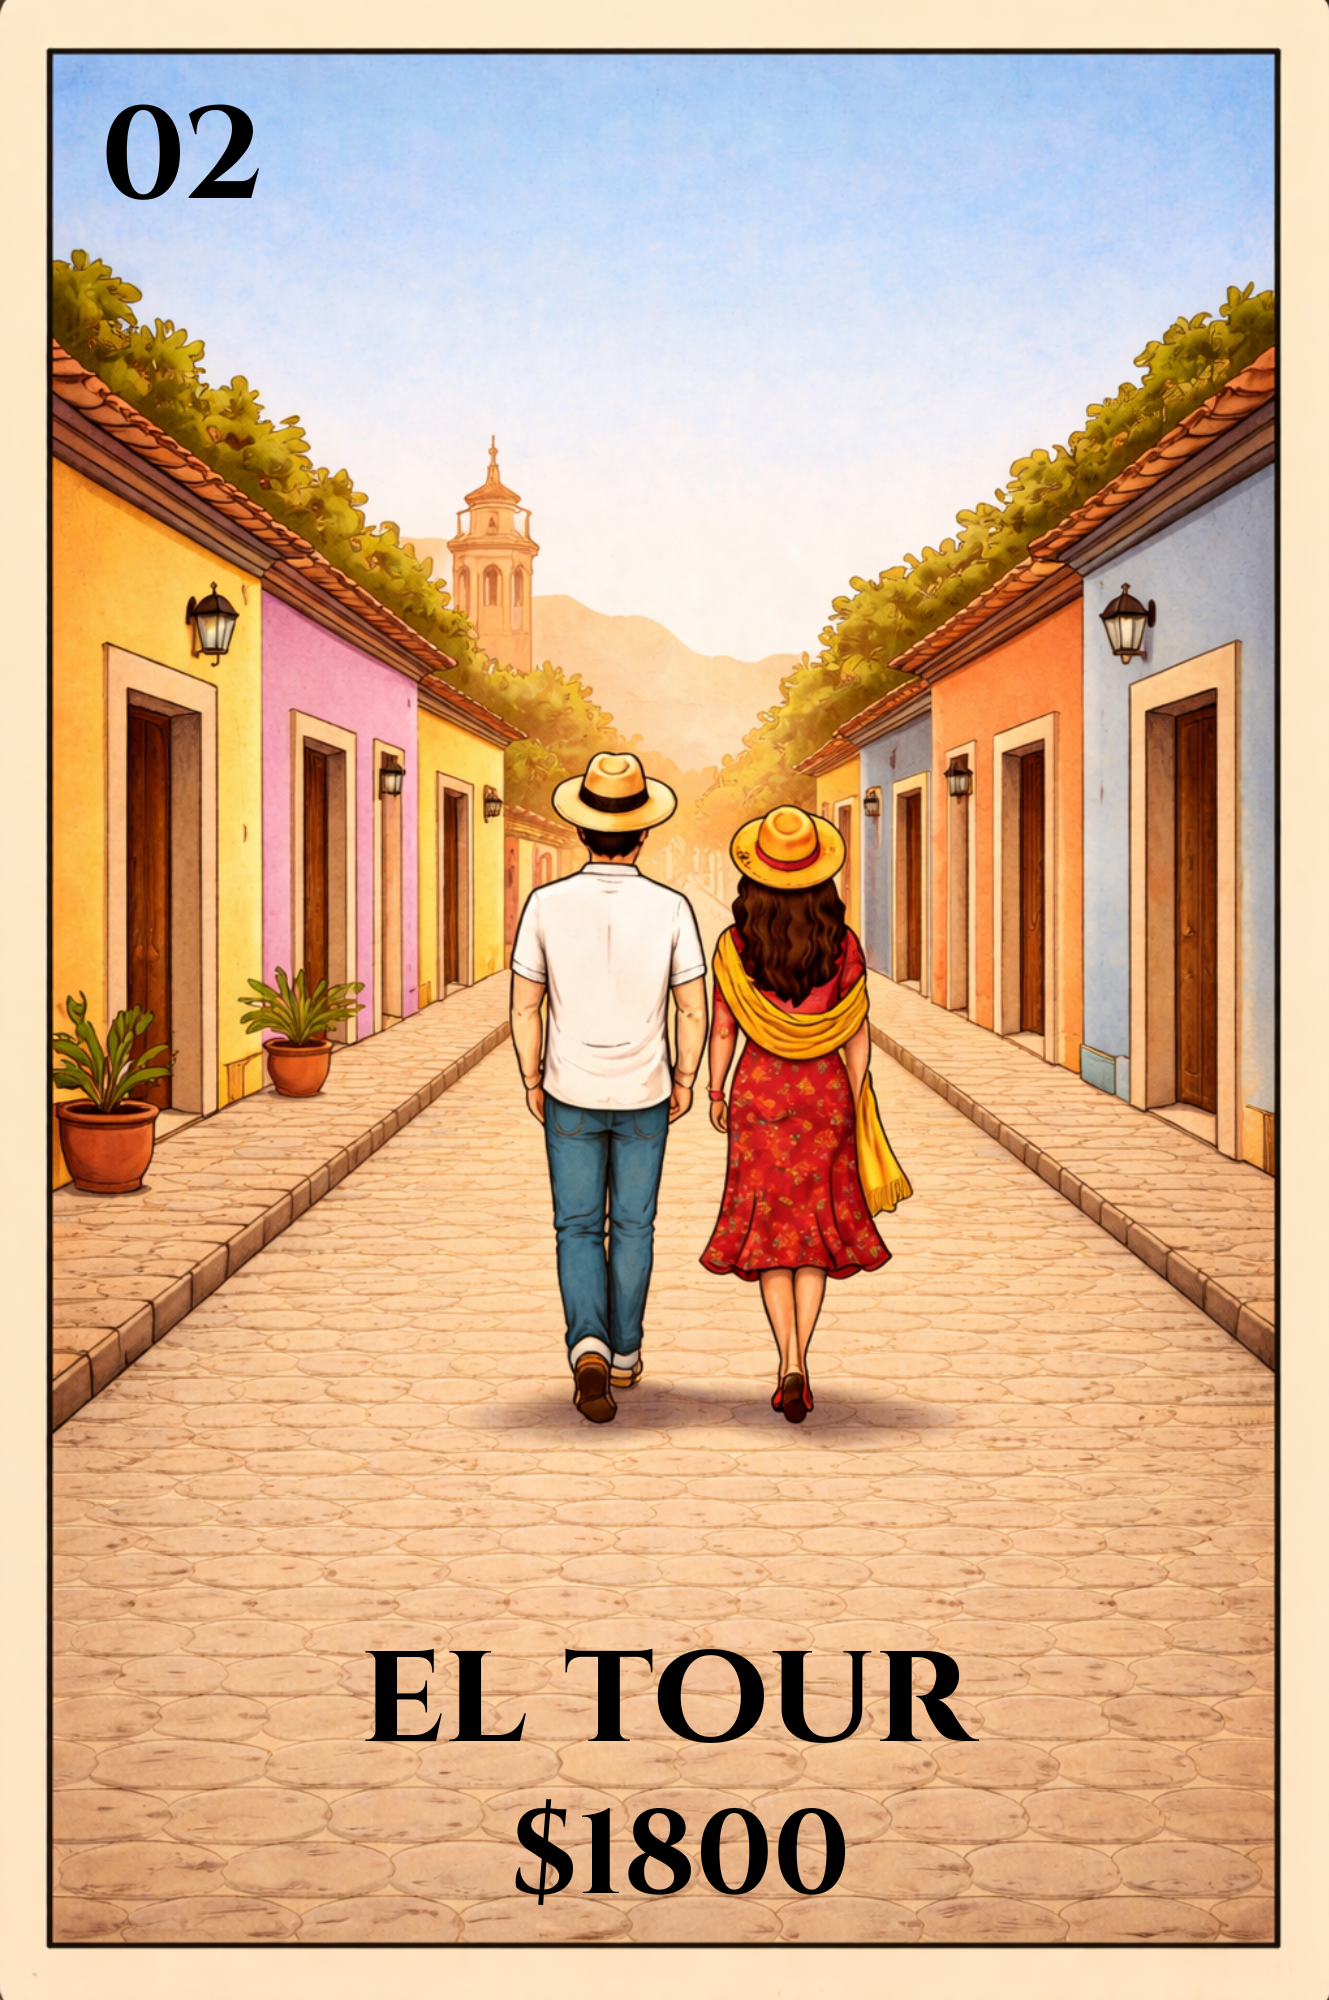
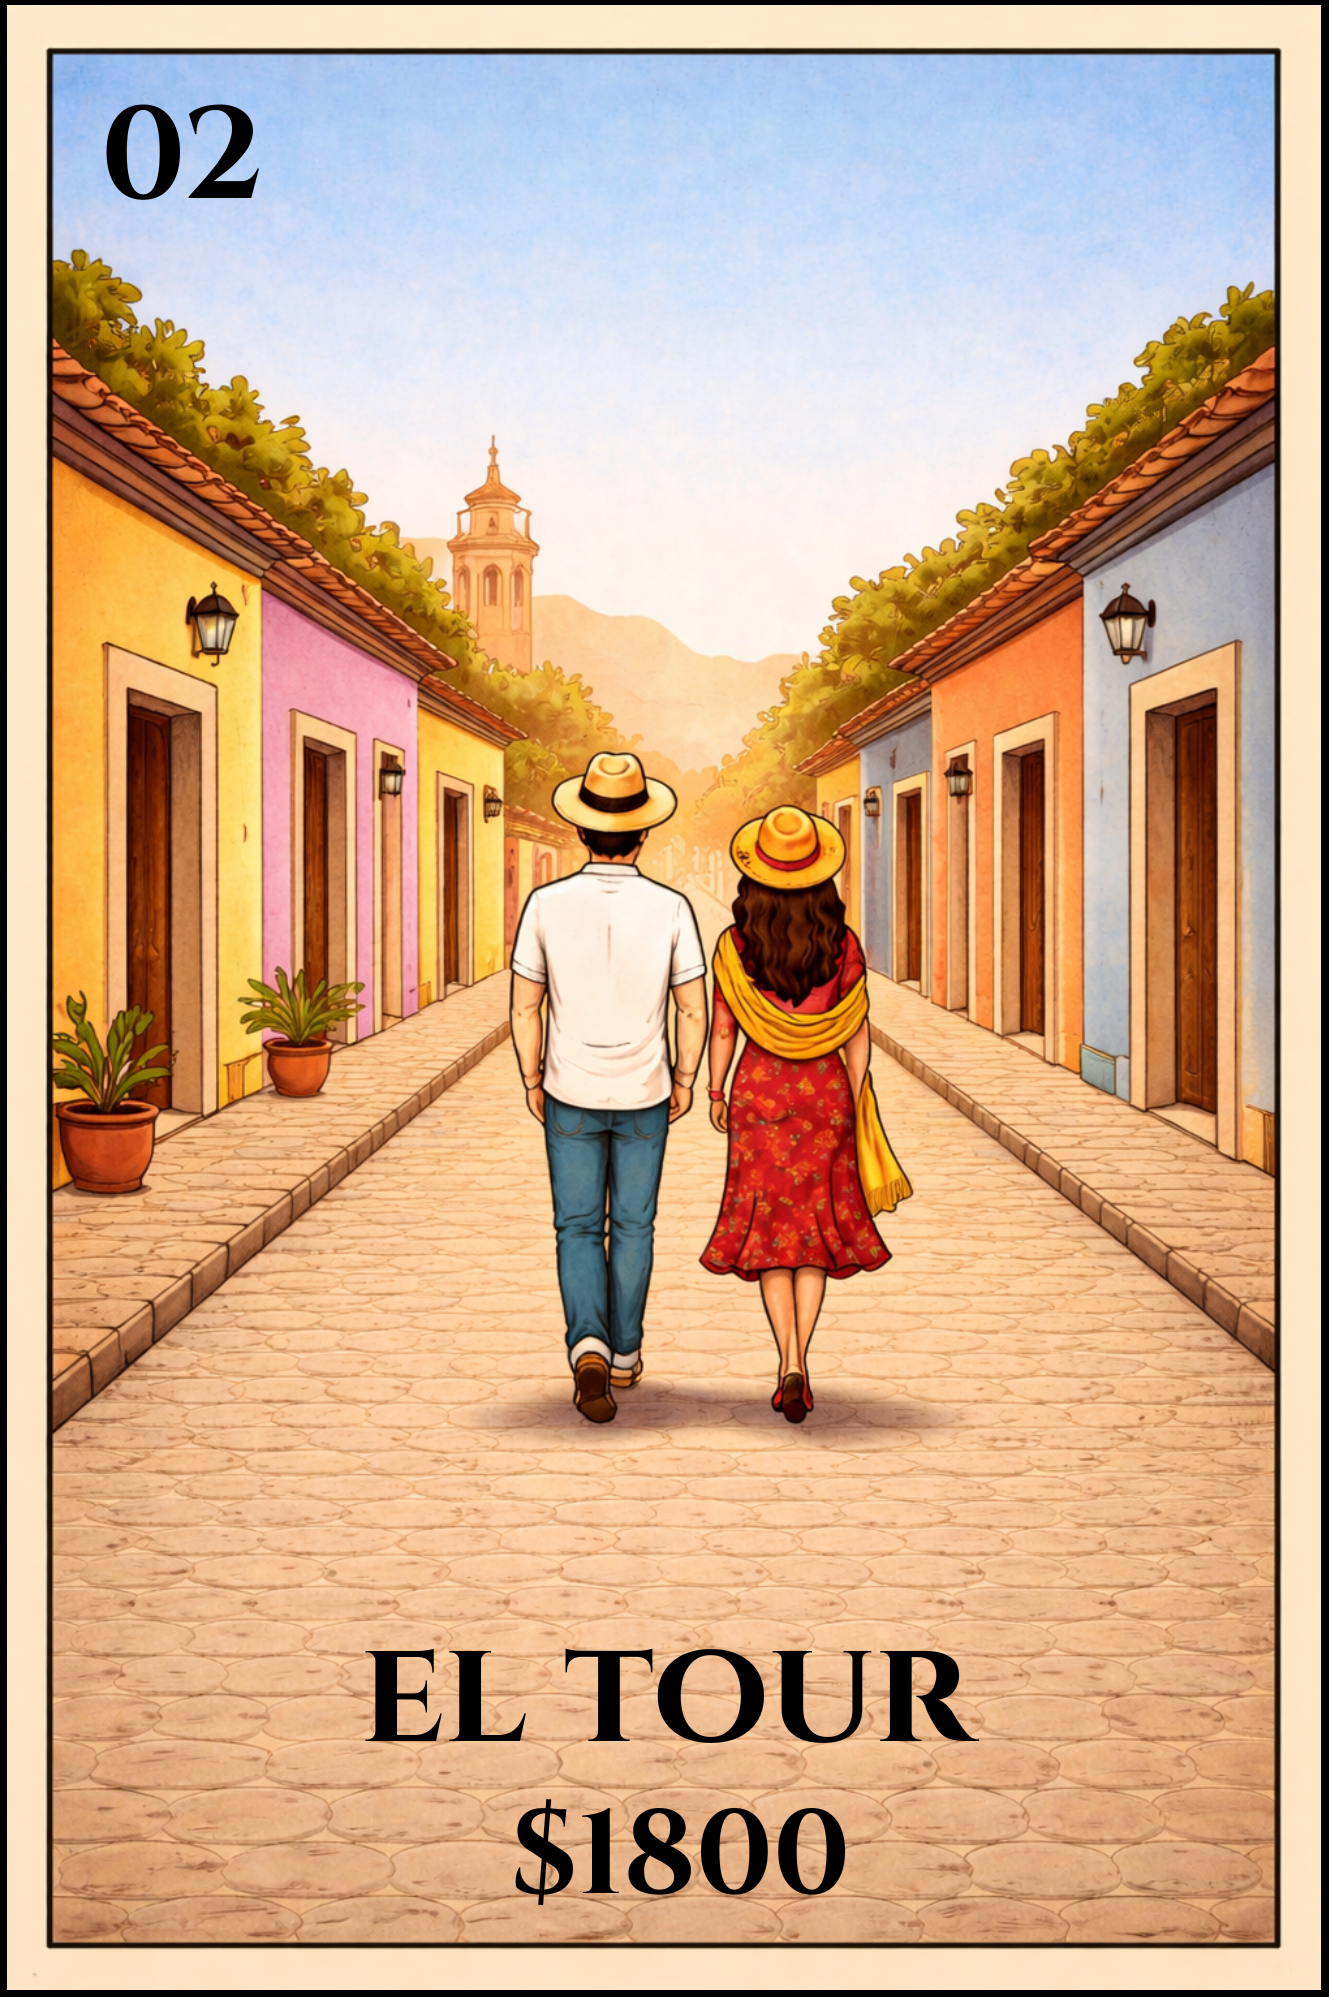
Agregado de marco a las imagenes (Paint) y datos

diff --git a/index.html b/index.html
@@ -200,6 +200,8 @@
       cursor: pointer;
       transition: transform .18s ease;
       aspect-ratio: 3 / 5;
+      overflow: hidden;
+      border-radius: var(--card-radius);
     }
 
     .thumb:hover,
@@ -212,7 +214,8 @@
       width: 100%;
       height: 100%;
       display: block;
-      object-fit: contain;
+      object-fit: cover;
+      object-position: center;
       border-radius: var(--card-radius);
       box-shadow: var(--shadow);
     }
@@ -664,7 +667,7 @@
           <div id="gateMessage" class="gate-message"></div>
         </div>
 
-        <div class="gate-kicker">✦ boda + lotería + amor ✦</div>
+        <div class="gate-kicker">✦ Boda + Lotería + Amor ✦</div>
       </div>
     </div>
   </section>
@@ -674,8 +677,9 @@
       <div class="title-wrap">
         <h1>La Boderia</h1>
         <p>
-          Celebrar contigo es lo más importante para nosotros. Si deseas tener un detalle, puedes elegir la tarjeta que más te guste.\n\nCelebrating with you means the most to us.
-If you’d like to give a gift, please choose the card you like most.
+          Celebrar contigo es lo más importante para nosotros. Si deseas tener un detalle, puedes elegir la tarjeta que más te guste.
+          <br><br>
+          Celebrating with you means the most to us. If you'd like to give a litle something, please choose the card you like the most.
         </p>
       </div>
     </div>
@@ -704,17 +708,17 @@ If you’d like to give a gift, please choose the card you like most.
                 <div class="account-section">
                   <h3 class="account-title">México</h3>
                   <p><strong>Banco:</strong> BBVA</p>
-                  <p><strong>Nombre:</strong> TU NOMBRE</p>
-                  <p><strong>Tarjeta de debito:</strong> <span id="mxCuentaTexto">1234567890</span></p>
-                  <button id="copyMxBtn" class="copy-btn">Copiar cuenta MX</button>
+                  <p><strong>Nombre:</strong> JUAN PABLO LOPEZ GOMEZ</p>
+                  <p><strong>Tarjeta de debito:</strong> <span id="mxCuentaTexto">4815163023732160</span></p>
+                  <button id="copyMxBtn" class="copy-btn">Copiar cuenta</button>
                 </div>
 
                 <div class="account-divider"></div>
 
                 <div class="account-section">
                   <h3 class="account-title">United States</h3>
-                  <p><strong>Venmo:</strong> <span id="usCuentaTexto">@yourvenmo</span></p>
-                  <p><strong>Name:</strong> YOUR NAME</p>
+                  <p><strong>Venmo:</strong> <span id="usCuentaTexto">@bereyam</span></p>
+                  <p><strong>Name:</strong> BERENICE YAMELI ZEPEDA MARTINEZ</p>
                   <button id="copyUsBtn" class="copy-btn">Copy Venmo</button>
                 </div>
               </div>
